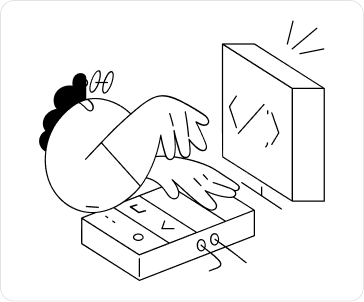
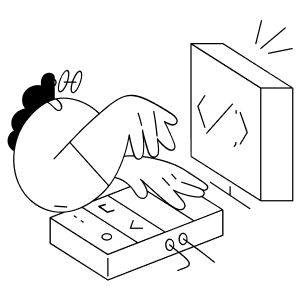
chore: Update carousel images and enhance SecurityCarousel styles (#225)
* chore: Update carousel images and enhance SecurityCarousel styles

* fix: Simplify enableAutomaticScroll logic in EmailLogin component

* feat: Add ShinyText component for animated text effects

* feat: Integrate ShinyText component and update SummaryStatusTexts styling

* style: Update SecurityCarousel styles for improved layout and visual consistency

* style: Adjust padding in CallEndOverlay for improved visual consistency

* feat: Enhance OtpVerification component

---------

diff --git a/src/screens/CallSummaryScreen/components/SummaryGenerationProgress/SummaryStatusTexts.tsx b/src/screens/CallSummaryScreen/components/SummaryGenerationProgress/SummaryStatusTexts.tsx
@@ -1,22 +1,18 @@
 import React, {useCallback, useEffect, useMemo, useState} from 'react';
-import {Animated, Text, View} from 'react-native';
+import {Text, View} from 'react-native';
 import {ScaledSheet} from 'react-native-size-matters';
 
 import {ShieldWithTickIcon} from '@/assets';
-import {
-  SUMMARY_GENERATION_STEPS,
-  SummaryGenerationStep,
-} from '@/constants/summary';
+import {ShinyText} from '@/components';
+import {SUMMARY_GENERATION_STEPS, SummaryGenerationStep} from '@/constants';
 import {useTranslate} from '@/hooks';
 import {useAppSelector} from '@/store/hooks';
 import {colors, fontFamily} from '@/theme';
 
 export const SummaryStatusTexts: React.FC = () => {
   const [currentStepIndex, setCurrentStepIndex] = useState(0);
-  const [blinkCount, setBlinkCount] = useState(0);
   const [hasCompletedAllSteps, setHasCompletedAllSteps] = useState(false);
 
-  const fadeAnim = useMemo(() => new Animated.Value(1), []);
   const {t} = useTranslate();
   const currentChat = useAppSelector(state => state.chat.currentChat);
   const filteredSteps = useMemo(() => {
@@ -25,49 +21,25 @@ export const SummaryStatusTexts: React.FC = () => {
       : [...SUMMARY_GENERATION_STEPS.slice(8, SUMMARY_GENERATION_STEPS.length)];
   }, [currentChat]);
 
-  const animateBlink = useCallback(() => {
-    Animated.sequence([
-      Animated.timing(fadeAnim, {
-        toValue: 0,
-        duration: 500,
-        useNativeDriver: true,
-      }),
-      Animated.timing(fadeAnim, {
-        toValue: 1,
-        duration: 500,
-        useNativeDriver: true,
-      }),
-    ]).start();
-  }, [fadeAnim]);
-
   const changeStep = useCallback(() => {
     if (currentStepIndex === filteredSteps.length - 1) {
       setHasCompletedAllSteps(true);
       return;
     }
     setCurrentStepIndex(prev => prev + 1);
-    setBlinkCount(0);
   }, [currentStepIndex, filteredSteps]);
 
   useEffect(() => {
-    const blinkInterval = setInterval(() => {
-      animateBlink();
-      if (!hasCompletedAllSteps) {
-        setBlinkCount(prev => prev + 1);
-      }
-    }, 1000);
-
     const stepInterval = setInterval(() => {
-      if (!hasCompletedAllSteps && blinkCount >= 1) {
+      if (!hasCompletedAllSteps) {
         changeStep();
       }
-    }, 1000);
+    }, 3000);
 
     return () => {
-      clearInterval(blinkInterval);
       clearInterval(stepInterval);
     };
-  }, [blinkCount, animateBlink, changeStep, hasCompletedAllSteps]);
+  }, [changeStep, hasCompletedAllSteps]);
 
   const shouldShowGeneratedRow =
     currentStepIndex >=
@@ -77,9 +49,9 @@ export const SummaryStatusTexts: React.FC = () => {
 
   return (
     <View style={styles.container}>
-      <Animated.Text style={[styles.text, {opacity: fadeAnim}]}>
+      <ShinyText style={styles.text}>
         {filteredSteps[currentStepIndex]}...
-      </Animated.Text>
+      </ShinyText>
 
       {shouldShowGeneratedRow && (
         <View style={styles.generatedRow}>
@@ -103,7 +75,7 @@ const styles = ScaledSheet.create({
   text: {
     ...fontFamily.IBM_PLEX_SERIF.REGULAR,
     fontSize: '16@ms',
-    color: colors.darkSlate,
+    color: colors.black,
     textAlign: 'center',
   },
   generatedRow: {

diff --git a/src/components/ShinyText/ShinyText.tsx b/src/components/ShinyText/ShinyText.tsx
@@ -1,0 +1,89 @@
+import React, {useEffect} from 'react';
+import MaskedView from '@react-native-masked-view/masked-view';
+import {StyleProp, StyleSheet, Text, TextStyle} from 'react-native';
+import LinearGradient from 'react-native-linear-gradient';
+import Animated, {
+  Easing,
+  useAnimatedStyle,
+  useSharedValue,
+  withRepeat,
+  withTiming,
+} from 'react-native-reanimated';
+import {ScaledSheet} from 'react-native-size-matters';
+
+interface ShinyTextProps {
+  children: React.ReactNode;
+  disabled?: boolean;
+  speed?: number; // in seconds
+  style?: StyleProp<TextStyle>;
+}
+
+const GRADIENT_WIDTH = 300;
+const ANIMATION_DISTANCE = 300;
+const GRADIENT_COLORS = [
+  'rgba(255,255,255,0)',
+  'rgba(255,255,255,0.8)',
+  'rgba(255,255,255,0)',
+];
+
+export const ShinyText: React.FC<ShinyTextProps> = ({
+  children,
+  disabled = false,
+  speed = 5,
+  style,
+}) => {
+  const translateX = useSharedValue(-GRADIENT_WIDTH);
+
+  useEffect(() => {
+    if (!disabled) {
+      translateX.value = withRepeat(
+        withTiming(ANIMATION_DISTANCE, {
+          duration: speed * 500,
+          easing: Easing.linear,
+        }),
+        -1,
+        false,
+      );
+    } else {
+      translateX.value = -GRADIENT_WIDTH;
+    }
+  }, [disabled, speed, translateX]);
+
+  const animatedStyle = useAnimatedStyle(() => ({
+    transform: [{translateX: disabled ? 0 : translateX.value}],
+  }));
+
+  return (
+    <MaskedView
+      maskElement={<Text style={[styles.text, style]}>{children}</Text>}>
+      <Text style={[styles.text, style]}>{children}</Text>
+      {!disabled && (
+        <Animated.View
+          style={[StyleSheet.absoluteFill, animatedStyle]}
+          pointerEvents="none">
+          <LinearGradient
+            colors={GRADIENT_COLORS}
+            start={{x: 0, y: 0}}
+            end={{x: 1, y: 0}}
+            style={[
+              {
+                width: GRADIENT_WIDTH,
+              },
+              styles.gradient,
+            ]}
+          />
+        </Animated.View>
+      )}
+    </MaskedView>
+  );
+};
+
+const styles = ScaledSheet.create({
+  text: {
+    color: '#000',
+    fontSize: '16@s',
+  },
+  gradient: {
+    height: '100%',
+  },
+});

diff --git a/src/screens/SplashScreen/components/OtpVerification/OtpVerification.tsx b/src/screens/SplashScreen/components/OtpVerification/OtpVerification.tsx
@@ -3,11 +3,12 @@ import {Alert, Text, TouchableOpacity, View} from 'react-native';
 import {KeyboardAwareScrollView} from 'react-native-keyboard-aware-scroll-view';
 
 import {PrimaryButton} from '@/components';
+import {isIOS} from '@/constants';
 import {useTranslate} from '@/hooks';
-import {useGenerateOtpMutation, useVerifyOtpMutation} from '@/services/authApi';
+import {useGenerateOtpMutation, useVerifyOtpMutation} from '@/services';
 import {useAppDispatch} from '@/store/hooks';
 import {storeTokens} from '@/store/slices/userSlice';
-import {getErrorMessage} from '@/utils/error';
+import {getErrorMessage} from '@/utils';
 
 import {OtpInput, OtpInputRef} from '../OtpInput/OtpInput';
 import {styles} from './styles';
@@ -98,6 +99,7 @@ export const OtpVerification: React.FC<OtpVerificationProps> = ({
         enableOnAndroid
         extraScrollHeight={0}
         showsVerticalScrollIndicator={false}
+        enableAutomaticScroll={!isIOS}
         keyboardShouldPersistTaps="handled">
         <View style={styles.containerWrapper}>
           <Text style={styles.headerText}>

diff --git a/src/components/Carousel/SecurityCarousel.tsx b/src/components/Carousel/SecurityCarousel.tsx
@@ -106,7 +106,6 @@ const styles = ScaledSheet.create({
     shadowOffset: {width: 0, height: 2},
     shadowOpacity: 0.25,
     shadowRadius: 3.84,
-    elevation: 2,
     borderWidth: 0.5,
     borderColor: colors.white,
   },
@@ -124,17 +123,20 @@ const styles = ScaledSheet.create({
     height: '100%',
     alignItems: 'center',
     justifyContent: 'center',
+    padding: '2@ms',
   },
   imageContainer: {
     width: '100%',
     height: '280@ms',
     borderRadius: '10@ms',
+    borderWidth: 0.3,
     overflow: 'hidden',
   },
   image: {
     width: '100%',
     height: '100%',
-    overflow: 'hidden',
+    backgroundColor: colors.white,
+    borderColor: colors.black,
   },
   slideTitle: {
     ...fontFamily.REPLAY_PRO.BOLD,

diff --git a/src/screens/SplashScreen/components/EmailLogin/EmailLogin.tsx b/src/screens/SplashScreen/components/EmailLogin/EmailLogin.tsx
@@ -6,6 +6,7 @@ import {KeyboardAwareScrollView} from 'react-native-keyboard-aware-scroll-view';
 
 import {PrimaryButton} from '@/components';
 import {
+  isIOS,
   isValidEmail,
   PRIVACY_POLICY_URL,
   TERMS_AND_CONDITIONS_URL,
@@ -72,6 +73,7 @@ export const EmailLogin: React.FC<EmailLoginProps> = ({
         contentContainerStyle={styles.contentContainer}
         keyboardShouldPersistTaps="handled"
         enableOnAndroid
+        enableAutomaticScroll={!isIOS}
         extraScrollHeight={0}
         showsVerticalScrollIndicator={false}>
         <View style={styles.contentContainer}>

diff --git a/src/screens/BoxBreathingScreen/components/CallEndOverlay/CallEndOverlay.tsx b/src/screens/BoxBreathingScreen/components/CallEndOverlay/CallEndOverlay.tsx
@@ -106,7 +106,7 @@ const styles = ScaledSheet.create({
     fontStyle: isIOS ? 'italic' : 'normal',
     backgroundColor: colors.brightBlue,
     paddingHorizontal: '12@s',
-    paddingVertical: '4@vs',
+    paddingVertical: '2@vs',
     borderRadius: '40@s',
     overflow: 'hidden',
     includeFontPadding: false,

diff --git a/src/screens/CallSummaryScreen/components/SummaryGenerationProgress/SummaryGenerationProgress.tsx b/src/screens/CallSummaryScreen/components/SummaryGenerationProgress/SummaryGenerationProgress.tsx
@@ -97,10 +97,9 @@ const styles = ScaledSheet.create({
     height: '100%',
   },
   title: {
-    ...fontFamily.REPLAY_PRO.HEADLINE,
+    ...fontFamily.REPLAY_PRO.BOLD,
     fontSize: '20@ms',
     color: colors.darkSlate,
-    fontWeight: '700',
     marginBottom: '12@ms',
     textAlign: 'center',
   },

diff --git a/src/components/index.ts b/src/components/index.ts
@@ -28,3 +28,4 @@ export type {
   NavigationProps,
 } from './Carousel';
 export {PrivacyTooltip} from './PrivacyTooltip';
+export {ShinyText} from './ShinyText';

diff --git a/src/components/ShinyText/index.ts b/src/components/ShinyText/index.ts
@@ -1,0 +1,1 @@
+export {ShinyText} from './ShinyText';
